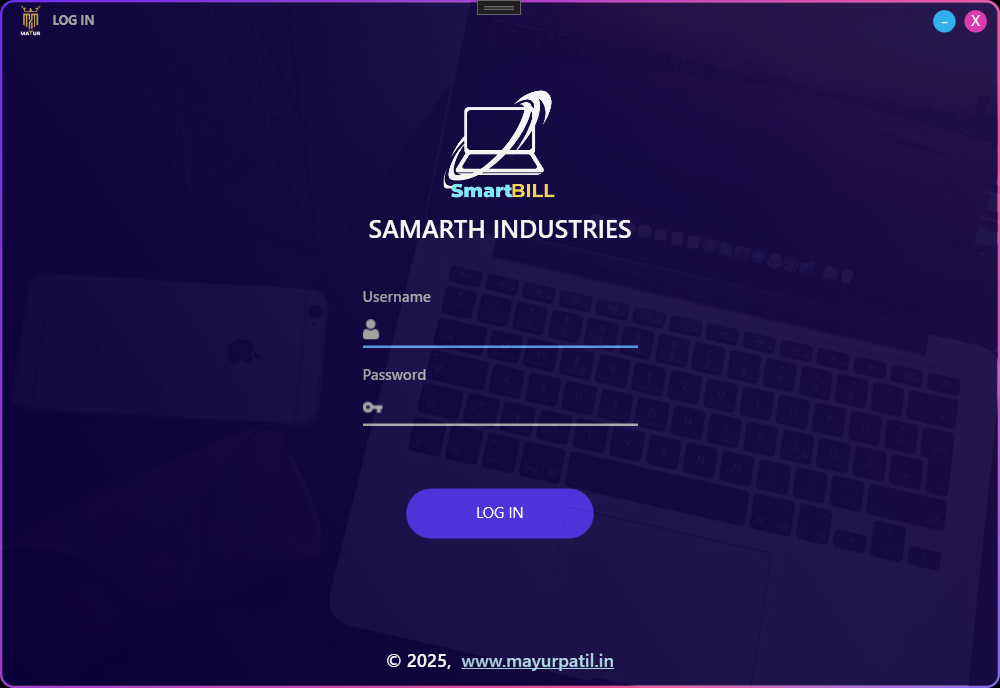
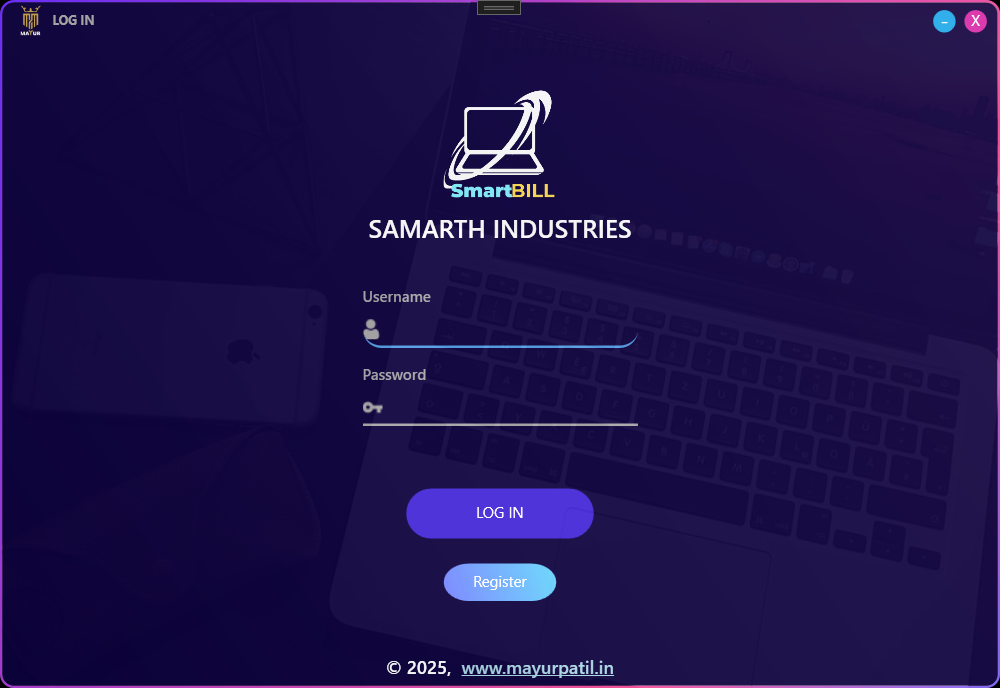
login form design improve

Changed region(s): [[0.372, 0.9462, 0.62, 1.0], [0.434, 0.7936, 0.558, 0.8852], [0.62, 0.4884, 0.651, 0.5189]]

diff --git a/SmartBILL/SmartBILL/Views/LoginView.xaml b/SmartBILL/SmartBILL/Views/LoginView.xaml
@@ -197,7 +197,7 @@
                             www.mayurpatil.in
                         </Hyperlink>
                     </TextBlock>-->
-                    <TextBlock Foreground="White" FontSize="14.5" FontWeight="Medium" FontFamily="Montserrat" Margin="0,90,0,0" HorizontalAlignment="Center">
+                    <TextBlock Foreground="White" FontSize="14.5" FontWeight="Medium" FontFamily="Montserrat" Margin="0,45,0,0" HorizontalAlignment="Center">
                         <Run x:Name="runYear" Text=" "/>
                         <Hyperlink NavigateUri="https://www.mayurpatil.in" RequestNavigate="Hyperlink_RequestNavigate" Style="{StaticResource hyperLinkMayur}">
                             www.mayurpatil.in
